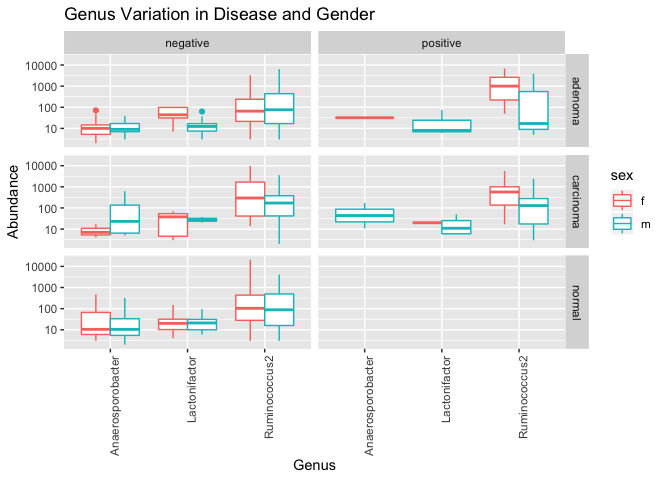
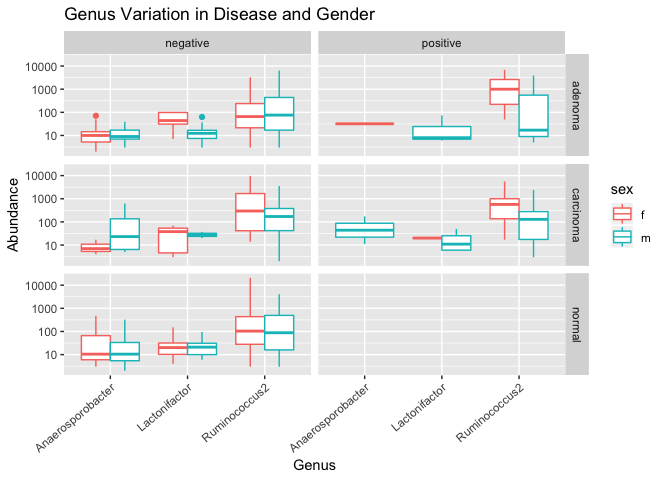
Update the labels on graphs along with the markdow files

diff --git a/Final_Report.md b/Final_Report.md
@@ -1,4 +1,4 @@
-Use Microbiome Distribution Pattern and Abundancy Change Under Different Parameters to Predict and Treat Colonrectal Cancer
+Use Microbiome Distribution Pattern and Abundancy Change to Predict and Treat Colonrectal Cancer
 ================
 Maggie Chen
 December 5, 2018
@@ -6,15 +6,15 @@ December 5, 2018
 Introduction
 ============
 
-Microbial community has constantly interact with human communities and there are both benefits and harms can be done to human health by different bacteria. No limited to the surface of the human body, internally bacteria also has an indispensable role in maintaining normal function and development of human body(Sommer *et al.*, 2016). For instance, microbial community in human's gut is a typical example of how the human can benefit from bacteria. The microbial community in human's gut support metabolic activities, which will help the provide energy and provide nutrients for human's body. The microbial community in the gut also help provide immune protection against alien microbes (McMurdie and Holmes, 2013). Within the adult gastrointestinal tract, the colon has contained the most dense microbial community that in the luminal content there are than 10^11 bacteria per ml. Some of them are even metabolically active. (Whitman *et al.*, 1998). However, microbial community can also be related to diseases, such as inflammatory bowel diseases, allergic, and colorectal cancer, which are due to the change of gut microbiome composition and behavior disorder like depression (Vos and Vos, 2012). Or to identify the prognostic micro RNA to predict the risk of developing colon cancer.(Goossens-Beumer *et al.*, 2015).
+Microbial communities have interacted with human communities continuously, and there are both benefits and harms can be done to human health by different bacteria. Not limited to the surface of the human body, internally bacteria also have an indispensable role in maintaining normal function and development of the human body(Sommer *et al.*, 2016). For instance, the microbial community in human's gut is a typical example of how the human can benefit from bacteria. The microbial community in human's gut support metabolic activities, which will help the provide energy and nutrients for human's body. The microbial community in the gut also help provide immune protection against alien microbes (McMurdie and Holmes, 2013). Within the adult gastrointestinal tract, the colon has contained the densest microbial community that in the luminal content there are than 10^11 bacteria per ml. Some of them are even metabolically active. (Whitman *et al.*, 1998). However, the microbial community can also be related to diseases, such as inflammatory bowel diseases, allergic, and colorectal cancer, which are due to the change of gut microbiome composition and behavior disorder like depression (Vos and Vos, 2012). Alternatively, to identify the prognostic micro RNA to predict the risk of developing colon cancer (Goossens-Beumer *et al.*, 2015).
 
-Worldwide, coloretal cancer has accounted for over a half million death annually, which is the third most commonly diagnosed malignancy (Parkin *et al.*, 2005). There two major stages of correctional cancer development, firstly, it start with the precancerous adenomatous polyps in the colon, which is also known as the adenoma. The second stage is the progression into invasive and metastatic cancerous tumor, which is also called carcinoma (Levin *et al.*, 2008). The development of colorectal adenocarcinoma can be caused by the sequenctial or epigenetic mutation in the epithlial cells in the gastronintestinal trait. The mutation modifies the normal epithlial cells into hyperperliferative mucosa, which gives rise to begin adenoma (Pancione *et al.*, 2012). The normal gastonintestinal epithelium differentiate into several epithelial colon lineage including Panteh, goblet, and endocrine cells. They have the function of secret mucosa to lubercate the colon, and provide ptotection and anchor point for bacteria (Kosinski *et al.*, 2007). Thus, if the cancer causing mutation, alternated the function of colon epithelial cells, there is a chance of changing the microbial community in the colon. Therefore, the abundance and composition of gastrointestinal microbal coomunity may serve as an indication of cancer development. Due to the early diagnosis, the colorectal cancer have a steady decrease of death rate in the United States. The current colon cancer screening and prediction methods are detecting gene mutation or methlyation of certain genes that are related to colon cancer development (Kandimalla *et al.*, 2017).
+Worldwide, colorectal cancer has accounted for over a half million death annually, making it the third most commonly diagnosed malignancy (Parkin *et al.*, 2005). There are two major stages of colorectal cancer development, firstly, it start with the precancerous adenomatous polyps in the colon, known as the adenoma. In the second stage, the adenoma progresses into an invasive and metastatic cancerous tumor, called carcinoma (Levin *et al.*, 2008). The development of colorectal adenocarcinoma can be caused by the sequential or epigenetic mutation in the epithelial cells in the gastrointestinal tract. The mutation modifies the normal epithelial cells into hyperproliferative mucosa, which gives rise to begin adenoma (Pancione *et al.*, 2012). The normal gastrointestinal epithelium differentiates into several epithelial colon lineages including pantech, goblet, and endocrine cells. They have the function of secret mucosa to lubricate the colon and provide protection and anchor points for bacteria (Kosinski *et al.*, 2007). Thus, if a cancer-causing mutation changes the function of colon epithelial cells, there is a chance of altering the microbial community in the colon. Therefore, the abundance and composition of the gastrointestinal microbial community may serve as an indication of cancer development. Due to the early diagnosis, the death rate due to colorectal cancer have steadily decreased in the United States. Current colon cancer screening and prediction methods are detecting gene mutation or methylation of specific genes that are related to colon cancer development (Kandimalla *et al.*, 2017).
 
 Along with the fast development of sequencing techniques, the sequence and investigation on microbial communities have expanded extensively. High-throughput sequencing, also known as the Next Generation Sequencing (NGS) technology, that used the non-Sanger-based method to enable an unprecedented DNA sequencing speed. This also allows the novel biological sequencing applications. For example, 454 technique is known to have a crucial advantage of combing the emulsion PCR and pyrosequencing. For emulsion PCR, the single DNA amplification is a bias-free process, by avoiding the competition by multiple templates for a limited amount of DNA polymerase. Pyrosequencing, can be performed in parallel and produce a visual signal via computer system (Schuster, 2007). The next generation sequencing technique makes the DNA sequencing faster, which generates significantly more data for scientists to process. Thus, to process the massive amount of data, different methods are developed. One of the example and will be used in this paper is the Phylogenetic Sequencing (Phyloseq), which is a contingency table of taxonomic and samples, and integrate with other data types. This can be applied along with the powerful statistical and graphical tool R to enable more various data analysis (McMurdie and Holmes, 2013).
 
-Thus, utilize the sequencing technology and different analyze tools, it is possible to examine the colon cancer is a new perspective, that is it's correlation with microbime composition and changes in cancer progression stages. For this paper, my primary question of interest is that what are the microbiomes that present differently in adenoma, carcinoma, and normal tissues. Also, what are their functions or relationship to the colorectal cancer. Then examine whether there is a correlation between bacteria species and the personal variables like BMI, geographical locations and medication. As an result, for adenoma, carcinoma, and normal tissues, there is a similar microbial community composition, but there is a different the abundance of each bacteria species. Also, bacteria can function in both directions, aid in cancer progression or help slow down the cancer progression. Lastly, geographical regions and medication will also impact and shape the microbial community in individuals, which can function as an possible prediction and guidance for colorectal cancer treatments.
+Thus, utilize the sequencing technology and different analysis tools, it is possible to examine the colon cancer is a new perspective, its correlation with microbiome composition and changes in cancer progression stages. For this paper, my primary question of interest is what are the microbiomes that present differently in adenoma, carcinoma, and normal tissues. Also, what are their functions or relationship to colorectal cancer. Then I examined whether there is a correlation between bacteria species and the personal variables like BMI, geographical locations and medication. As a result, for adenoma, carcinoma, and normal tissues, there is a similar microbial community composition, but there is a difference in the abundance of each bacteria species. In addition, bacteria can function in both directions, aid in cancer progression or help slow down the cancer progression. Lastly, geographical regions and medication will also impact and shape the microbial community in individuals, which can function as a possible prediction and guidance for colorectal cancer treatments.
 
-Even though colon has been the part in human body that has most bacteria involved, but the knowledge of investigating the relationship between cancer and microbial communities in human bodies can be applied to other types of cancer, both in treatment, prediction and prevention.
+Even though colon has been the part in the human body that has most bacteria involved, but the knowledge of investigating the relationship between cancer and microbial communities in human bodies can be applied to other types of cancer, both in treatment, prediction and prevention.
 
 Methods
 =======
@@ -22,28 +22,30 @@ Methods
 Study design
 ------------
 
-Zacular et al. examined 90 patients feces samples with 30 healthy, 30 colon carcinoma, and 30 colon adenoma to examine how the composition of the microbiome will be related to the the colon cancer progression ans whether the microbiome composition will help predict the adenoma and carcinoma lesions. Zacukar et al. also include the factors including BMI, weight, height, geographical location of the patients to further investigate their correlation with microbial communities.
+Zackular et al. examined 90 patients feces samples with 30 healthy, 30 colon carcinoma, and 30 colon adenoma to examine how the composition of the microbiome will be related to the colon cancer progression and whether the microbiome composition will help predict the adenoma and carcinoma lesions. Zackular et al. also include the factors including BMI, weight, height, geographical location of the patients to further investigate their correlation with microbial communities. For this paper, I used the sequence data and the metadata from Zackular et al.'s paper. Then analyzed the sequence data using DADA2, phlyoseq and R studio.
 
 Sample origin and sequencing
 ----------------------------
 
-Approved by the University of Michigan Institutional Review Board and all subjects provided informed consent. Zacular et al. took sample from patients, that were 18 years of age or older, and who could tolerate 58ml of blood removal at two time points, willing to complete an gFOBT kit, able to provide informed consent, also who had colonoscopy and histologically confirmed colonic disease status. Zacular et al, excluded patients who is known to have HIV, chronic vial hepatitis, HNPCC, FAP, inflammatory bowel disease. Or any surgery radiation and chemotherapy for their current colorectal cancer or colonic adenoma. Fecal samples and the colonoscopies were collected and performed respectively from four subjects of locations including, Toronto Canada, Boston Massachusetts, USA; Houston Texas, USA; and Ann Arbor Michigan, USA. The colonoscopies were followed by endoscopic examination, and patients who have no colonic abnormalities weer designated as healthy. For examinations that revealed the presence of lesions resulted in a biopsy and subsquence diagnosis of adenoma or carcinoma. All the samples collected from participants were collected following the usual dietary and medication restriction for 24 hours, as a whole evacuated stoll in a hat with no preservatives. The gFOBT 6-Panel kit (Sensa HemocultII, Beckman-coulter) was prepared by patients immediately after the previous collection, from different areas of the stool. The stool was packaged with ice in an insulated box, and shipped to the processing center align with the gFOBT cards. Once the sample received, the feces samples we stored at -80ºC. The gFOBT was processed and interpreted as soon as the arrival. If 6 wells we positive on the gFOOBT kit, then the patients will be recorded as FOBT positive. At the time of stool collection, all the participants had intact colonic lesion., and sample was provided 1-2 weeks after the colons copy preparation. Overall, there was 90 stool samples received in total, with 30 healthy, 30 colon adenoma and 30 colon carcinoma samples (Zackular *et al.*, 2014). The DNA extraction of samples used the Power-Soil-htp 96 well Soil DNA Isolation Kit (MO BIO Laboratories), and used EPMotion 5075 piptting system. Then the V4 regions of the 16S rRNA genes inn each samples was amplified and sequenced using Illumina MiSeq Personal Sequencing platofrm (Zackular *et al.*, 2014).
+Approved by the University of Michigan Institutional Review Board and all subjects provided informed consent. Zackular et al. took samples from patients, that were 18 years of age or older, and who could tolerate 58ml of blood removal at two time points. There are a few more requirements the participants need to fulfill, including willing to complete a gFOBT kit, able to provide informed consent, also who had a colonoscopy and histologically confirmed colonic disease status. Zackular et al., excluded patients who is known to have HIV, chronic viral hepatitis, HNPCC, FAP, inflammatory bowel disease, as well as, any surgery radiation and chemotherapy for their current colorectal cancer or colonic adenoma. Fecal samples and the colonoscopies were collected and performed from four subjects of locations including, Toronto Canada; Boston Massachusetts, USA; Houston Texas, USA; and Ann Arbor Michigan, USA. The colonoscopies were followed by an endoscopic examination and patients who have no colonic abnormalities were designated as healthy. For examinations that revealed the presence of lesions resulted in a biopsy and subsequent diagnosis of adenoma or carcinoma.
+
+All the samples were collected as a whole evacuated stool a hat with no preservatives following the usual dietary and medication restriction for 24 hours. The gFOBT 6-Panel kit (Sensa HemocultII, Beckman-coulter) was prepared by patients immediately after the previous collection, from different areas of the stool. The stool was packaged with ice in an insulated box and shipped to the processing center to align with the gFOBT cards. Once the sample received, the feces samples we stored at -80ºC. The gFOBT was processed and interpreted as soon as the arrival. If 6 wells we positive on the gFOOBT kit, then the patients will be recorded as FOBT positive. At the time of stool collection, all the participants had intact colonic lesion., and samples were provided 1-2 weeks after the colons copy preparation. Overall, there were 90 stool samples received in total, with 30 healthy, 30 colon adenoma and 30 colon carcinoma samples (Zackular *et al.*, 2014). The DNA extraction of samples used the Power-Soil-htp 96 well Soil DNA Isolation Kit (MO BIO Laboratories), and used EPMotion 5075 piptting system. Then the V4 regions of the 16S rRNA genes in each sample was amplified and sequenced using Illumina MiSeq Personal Sequencing platform (Zackular *et al.*, 2014).
 
 Computational
 -------------
 
-I used DADA to analyze and clean the data, then phyloseq and ggplot to visualize the results. Firstly, I ran a quality control on all twenty of the sample data, which generated a quality profile on each of the samples. Then according to the sequence quality, I trimmed the data if they have more than three expected error, and has a quality lower than two. As a quality control, I created a table to compare the read counts before and after the trim to ensure I did not trim off too many sequences. After the trim, I build an error model for each sample to assess the probability of an unmatched base is an error or not, and a plot to check whether the error model matches the data. After it, I also deleted the duplicated sequences. Then as an essential step, I DADA to process the sequence data. DADA is an analysis include the error model and evaluates whether the unique sequence found is true or false. DADA eliminates the false positive results to provide the real variants and limit spurious sequence, to provide a high-resolution amplicon data (Callahan *et al.*, 2016).
+I used DADA to analyze and clean the data, then phyloseq and ggplot to visualize the results. Firstly, used a bash script to download the data set. Then I ran a quality check on a few sample data, which generated a quality profile on each of the samples. Then according to the sequence quality, I trimmed the data if they have more than three expected error, and has a quality lower than two. As a quality control, I created a table to compare the read counts before and after the trim to ensure I did not trim off too many sequences. After the trim, I build an error model for each sample to assess the probability of an unmatched base is an error or not, and a plot to check whether the error model matches the data. After it, I also deleted the duplicated sequences. Then as an essential step, I DADA to process the sequence data. DADA is an analysis include the error model and evaluates whether the unique sequence found is true or false. DADA eliminates the false positive results to provide the real variants and limit spurious sequence, to provide a high-resolution amplicon data (Callahan *et al.*, 2016).
 
-Then I listed the output of the DADA analysis on a table according to the variety of length. As well as a histogram to indicate the distribution of the sequence that is trimmed and denoised, to ensure that all the sequences are in acceptable length and quality. Using this output, I also removed all the chimeras, which is the cDNA sequence that generated from two transcripts that is caused by polymerase stuck and ump to another similar sequence. Using the sequence data, I assigned the taxonomy according to the supplied training set. Using the dada2 output, I charted a data set, which contains the metadata for each sample, Phylogeny, and taxonomy for each sequence. The phyloseq pakges was used to import the information, and help analyze the phylogenetic sequence data clustered into Operational Taxonomic Units (OTU) (McMurdie and Holmes, 2013). I also melted the phyloseq data files to enable the ggplot function.
+Then I listed the output of the DADA analysis on a table according to the variety of length. I also created a histogram to indicate the distribution of the sequence that is trimmed and denoised, to ensure that all the sequences are in acceptable length and quality. Using this output, I also removed all the chimeras, which are the cDNA sequence generated from two transcripts that is caused by polymerase stuck to another similar sequence. Using the sequence data, I assigned the taxonomy according to the supplied training set. Using the dada2 output, I charted a data set, which contains the metadata for each sample, Phylogeny, and taxonomy for each sequence. The phyloseq packges was used to import the information, and help analyze the phylogenetic sequence data clustered into Operational Taxonomic Units (OTU) (McMurdie and Holmes, 2013). I also melted the phyloseq data files to enable the ggplot function.
 
 Results
 =======
 
-Firstly I was interested in how is the distribution of Phylum in different cancer progression stages, which includes normal, adenoma, and carcinoma. I found that in different types of fecal samples, they had very similar composition of microbial communities, but there are differences in the abundance of different phylum. The distribution pattern in three kinds of tissue samples are very different. The Bactericides abundance decreased in the order normal samples has the highest abundance, then carcinoma and then adenoma samples. Euryarchaeota is in the opposit trending than the Bacteroidets, the abundance increase in the order of normal, carcinoma, and adenoma. Fusobacteria is significantly more abundant in carcinoma samples. Proteibacteria is more abundant in adenoma and carcinoma samples than the normal samples (Figure 1.). Then I selected thos Phylum that showed a interesting pattern across different sample types to further examine the Class distributions in not normal samples. As well as the correlation between Class and FOBT results. As a results, Bacterioidia has the some abundance in both FOBT positive and negative samples from adenoma, and carcinoma. In both adenoma and carcinoma samples, the FOBT sample had more abundant Fusobacteriia than FOBT negative samples. The Clostridia and Negativicutes had a almost identical abundance in both FOBT positive and negative samples across the disease state. For Gammaproteobacteria, FOBT positive sample in both adenoma and carcinoma had lower abundance (Figure 2.).
+Firstly I was interested in the distribution of Phylum in different cancer progression stages, which includes normal, adenoma, and carcinoma. I found that in different types of fecal samples, they had a very similar composition of microbial communities, but there are differences in the abundance of different Phyla. The distribution pattern in three kinds of tissue samples are very different. The Bactericides abundance decreased, the normal samples has the highest abundance, then carcinoma and then adenoma samples. Euryarchaeota is in the opposite trending than the Bacteroides, the abundance increase in the order of normal, carcinoma, and adenoma. Fusobacteria is significantly more abundant in carcinoma samples. Proteobacteria is more abundant in adenoma and carcinoma samples than the normal samples (Figure 1). Next, I selected phyla that showed an interesting pattern across different sample types to further examine the Class distributions in non-normal samples and the correlation between Class and FOBT results. As a results, Bacterioidia has some abundance in both FOBT positive and negative samples from adenoma and carcinoma. In both adenoma and carcinoma samples, the FOBT sample had more abundant Fusobacteria than FOBT negative samples. The Clostridia and Negativicutes had an almost identical abundance in both FOBT positive and negative samples across the disease state. For Gammaproteobacteria, FOBT positive sample in both adenoma and carcinoma had a lower abundance (Figure 2).
 
-Then I selected out Gammaproteobacteria, Clostridia, Fusobacteriia, and Negativicutes to investigate their distribution in FBOT positive samples. Also, the how gender will impact the abundance. For Fusobacteriia, there were mostly male samples only. Fusobacteria also had high abundance in carcinoma tissues, and lower in adenoma samples. For Gammaproteobacteria, in both adenoma and carcinoma samples, they had relatively similar abundance in both male and female samples. Clostridia had lower abundance in both male adenoma and carcinoma samples than female. This similar to the pattern of Negativicutes, in adenomas samples. However, Negativicutes had significantly higher abundance in male carcinoma than female (Figure 3.). Giving Clostridia had a pattern consistency in adenoma and carcinoma sample, I then further investigated three specific Genus under Class Clostridia, Family Lachnospiraceae, which are Genus *Lactonifactor*, *Ruminococcus2*, *Anaerosporobacter*, with their abundance under the context of FOBT results and gender. In both male and female, FOBT results created a different abundance of mirobiome in adenoma and carcinoma samples. Within the Family Lachnospiraceae, I filtered several Genus that has relatively high abundance. *Anaerosporobacter* had similar abundance for male and female in each of FOBT negative sample types, adenoma, carcinoma and normal. However, it is only found in female FOBT positive adenoma samples and male FOBT positive carcinoma samples. *Ruminococcus* was found in similar abundance in FOBT negative samples between male and females. But in the FOBT positive samples, *Ruminococcus* was more abundant in both female adenoma and carcinoma samples than male (Figure 4.).
+Then I selected out Gammaproteobacteria, Clostridia, Fusobacteriia, and Negativicutes to investigate their distribution in FBOT positive samples. I also investigate how gender will impact the abundance. For Fusobacteriia, there were mostly male samples only. Fusobacteria also had high abundance in carcinoma tissues, and lower in adenoma samples. For Gammaproteobacteria, in both adenoma and carcinoma samples, they had relatively similar abundance in both male and female samples. Clostridia had lower abundance in both male adenoma and carcinoma samples than female. This similar to the pattern of Negativicutes, in adenomas samples. However, Negativicutes had significantly higher abundance in male carcinoma than female (Figure 3). Giving Clostridia had a pattern consistency in adenoma and carcinoma sample, I then further investigated three specific Genus under Class Clostridia, Family Lachnospiraceae, which are Genus *Lactonifactor*, *Ruminococcus2*, *Anaerosporobacter*, with their abundance under the context of FOBT results and gender. In both male and female, FOBT results created a different abundance of the microbiome in adenoma and carcinoma samples. Within the Family Lachnospiraceae, I filtered several Genus that has relatively high abundance. *Anaerosporobacter* had a similar abundance for male and female in each of FOBT negative sample types, adenoma, carcinoma and normal. However, it is only found in female FOBT positive adenoma samples and male FOBT positive carcinoma samples. *Ruminococcus* was found in similar abundance in FOBT negative samples between male and females. However, in the FOBT positive samples, *Ruminococcus* was more abundant in both female adenoma and carcinoma samples than male (Figure 4).
 
-Since *Ruminococcus* had shown a different pattern between the FOBT positive and negative samples, and gender. I then further examined the geographical location's impact on *Ruminococcus*. For the adenoma samples had *Ruminococcus* detected, the patients are from Toronto or Ann Arbor, But mostly Toronto, ON, Canada. The carcinoma samples were mostly from Boston and Houston patients. For normal healthy samples are more diverse and came from all four different locations (Figure 5.). Lastly, I was interested to see how different combinations of medication that contains the liptor will influence the *Ruminococcus* abundance in the samples. As the results, for the effect of medication in FOBT negative samples. Female patients who had lipitor ins the treatment, they had relatively high abundance of *Ruminococcus*, and the average abundance is similar to each other. For male individuals, different combinations of treatment that contains lipitor creates a variation of *Ruminococcus* abundance. Individual had only treated with lipitor had the highest *Ruminococcus* mean abundance, then lipitor with ezetrol and lipitor with metformin and allupurinol had a decrease the *Ruminococcus* abundance. The treatment of lipitor and novasc had significantly lowered the *Ruminococcus* abundance in male adenoma samples (Figure 6.).
+Since *Ruminococcus* had shown a different pattern between the FOBT positive and negative samples, and gender. I then further examined the geographical location's impact on *Ruminococcus*. For the adenoma samples with *Ruminococcus* detected, the patients are from Toronto or Ann Arbor, But mostly Toronto, ON, Canada. The carcinoma samples were mostly from Boston and Houston patients. Normal healthy samples were found in all four locations (Figure 5). Lastly, I was interested to see how different combinations of medication that contains the liptor will influence the *Ruminococcus* abundance in the samples. As the results, for the effect of medication in FOBT negative samples. Female patients who took Lipitor were found to have a relatively high abundance of *Ruminococcus*, and the average abundance is similar to each other. For male individuals, different combinations of treatment that contains Lipitor create a variation of *Ruminococcus* abundance. Individuals had only treated with Lipitor had the highest *Ruminococcus* mean abundance, then Lipitor with ezetrol and Lipitor with metformin and allopurinol had a decrease the *Ruminococcus* abundance. The treatment of Lipitor and novasc had significantly lowered the *Ruminococcus* abundance in male adenoma samples (Figure 6).
 
 ![](Final_Report_files/figure-markdown_github/Phylum-disease-corrolation-barplot-1.png)
 
@@ -88,17 +90,17 @@ Figure 6. To further investigate how *Ruminococcus* is impacted by the medicatio
 Discussion
 ==========
 
-The result suggested that for microbial have huge variation of abundance depend on different disease state, gender, FOBT results, geographical locations, and medications. The variation of the microbial abundance, while have the sample phylum composition of the microbime can sever as a method too distinguish and even predict the progression stages of the colon cancer. The Fusobacteria has a significant increase in abundance in the carcinoma samples, while in normal and adenoma tissue Fusobacteria remained at a very low concentration (Figure 1.). Thus, if patients has an increase in the Fusobacteria abundance, there might be a risk of developing colon cancer. Or Bacteroidetes is commonly found in colon, human skin even healthy placenta (Mor and Kwon, 2015), and it is highly abundant in normal tissues and experience a decrease in abundance in adenoma and carcinoma samples (Figure 1). Thus, if the feces screening has found a decrease in the Bacterioidetes, then more test might needed to further evaluate the risk of developing colon cancer. However, the phylum might be a categorize with higher uncertainties of which specific bacteria we are looking for and whether other factors plays a important role in the colon cancer. Thus, looking into the class underneath and whether Blood in the fecal samples will aid into the change of micorbiome. The FOBT, fecal occult blood test, has show to correlate with the mortality of colon cancer. The FOBT positive result might relate to the reduction of mortality to colon cancer (Mandel *et al.*, 1993). I found several class of bacteria that has height abundance in the FOBT positive samples, than the FOBT negative sample, which can be used as another additional screening method for colon cancer. For example, in both adenoma and carcinoma samples, Fusobacteriia and Deltaproteobacteria has found mroe abundant in FOBT positive sample. In contrast Gammaproteobacteria has been found to have lower abundance in FOBT positive samples (Figure 2). This observation has very much related to the function of the bacteria, which then can even help us provide a more accurate treatment. *Fusobacterium*, the Genus within Class Fusobacteria has been found as a possible opportunistic pathogen located in both mouth and gut that is implicated in inflammatory diseases (Signat *et al.*, 2011). During the cancer progression especially the lesion has caused the bleeding, *Fusobacterium* might participating in induce the inflation in the colon. Thus, it is possible to use anti-inflammatory medication to help reduce the syndrome.
+The result suggested that microbial communities have a vast variation of abundance depending on different disease state, gender, FOBT results, geographical locations, and medications. The variation of the microbial abundance, while have the sample phyla composition of the microbiome can sever as a method to distinguish and even predict the progression stages of the colon cancer. The Fusobacteria has a significant increase in abundance in the carcinoma samples, while in normal and adenoma tissue Fusobacteria remained at a very low concentration (Figure 1.). Thus, if patients have an increase in the Fusobacteria abundance, there might be a risk of developing colon cancer. Bacteroidetes is commonly found in the colon, human skin even healthy placenta (Mor and Kwon, 2015), and it is highly abundant in normal tissues and experience a decrease in abundance in adenoma and carcinoma samples (Figure 1). Thus, if the feces screening has found a decrease in the Bacterioidetes, then more test might be needed to further evaluate the risk of developing colon cancer. However, the phylum might be a categorize with higher uncertainties of which specific bacteria we are looking for and whether other factors plays a critical role in colon cancer. Thus, looking into the class underneath and whether Blood in the fecal samples will aid into the change of microbiome. The FOBT, fecal occult blood test, has shown to correlate with the mortality of colon cancer. The FOBT positive result might relate to the reduction of mortality to colon cancer (Mandel *et al.*, 1993). I found several classes of bacteria that has a higher abundance in the FOBT positive samples, than the FOBT negative sample, which can be used as another additional screening method for colon cancer. For example, in both adenoma and carcinoma samples, Fusobacteriia and Deltaproteobacteria have found more abundant in FOBT positive sample. In contrast, Gammaproteobacteria has been found to have lower abundance in FOBT positive samples (Figure 2). This observation has very much related to the function of the bacteria, which then can even help us provide a more accurate treatment. *Fusobacterium*, the Genus within Class Fusobacteria has been found as a possible opportunistic pathogen located in both mouth and gut that is implicated in inflammatory diseases (Signat *et al.*, 2011). During the cancer progression especially if the lesion has caused the bleeding, *Fusobacterium* might participate in inducing the inflammation in the colon. Thus, it is possible to use anti-inflammatory medication to help reduce the syndrome.
 
-There are also a lot of factors other than FOBT test that plays a role the colon cancer progression. I have investigated how Body Mass Index (BMI), the gender, geographical location and medication will impact the mirocbiome distribution pattern. For the BMI, there is no obvious correlation with the colon cancer development nor the change in the microbime community. As for gender, there are bacteria only has been found in male, Fusobacteria is only found in FOBT positive male samples, and lower abundance in adenoma than carcinoma (Figure 3). In combination with the previous information, having less abundance in adenoma indicate less inflammatory is happening in precancerous condition. Also, Fusobacteriia will more likely to be the cause of inflammation in male than female. For Negativicutes, it is more commonly found in female adenoma than male, but it dramatically decrease in the female carcinoma samples, while only have a slight decrease in male carcinoma samples. Negativicutes is know to aid in the production or conversion of either succinate or lactate to propinoate in the human gut (Reichardt *et al.*, 2014). The intake of propoinate in colon, will reduce the energy intake and prevent weight gain (Chambers *et al.*, 2015). Thus, females are more vulnerable to weight loss, when they develop colon carcinoma.
+There are also a lot of factors other than FOBT test that plays a role the colon cancer progression. I have investigated how the Body Mass Index (BMI), the gender, geographical location and, medication will impact the microbiome distribution pattern. For the BMI, there is no obvious correlation with the colon cancer development nor the change in the microbiome community. As for gender, Fusobacteria is only found in FOBT positive male samples with lower abundance in adenoma than carcinoma (Figure 3). In combination with the previous information, having less abundance in adenoma indicate less inflammation is happening in precancerous condition. Also, Fusobacteria will more likely to be the cause of inflammation in male than female. For Negativicutes, it is more commonly found in female adenoma than male, but it dramatically decreases in the female carcinoma samples, while only have a slight decrease in male carcinoma samples. Negativicutes is known to aid in the production or conversion of either succinate or lactate to propionate in the human gut (Reichardt *et al.*, 2014). The intake of propoinate in the colon, will reduce energy intake and prevent weight gain (Chambers *et al.*, 2015). Thus, females are more vulnerable to weight loss, when they develop colon carcinoma.
 
-Family Lachnospiraceae has been know to help maintain the gut health as active plant degredaders (Biddle *et al.*, 2013). All the Genus in the Family has decrease in the abundance in the FOBT postie samples, but not necessary in adenoma and carcinoma (Figure 4). This ia an indication that the FOBT positive is a relative strong reflection of the decrease of health of colon, in colon cancer progression. Thus, if a patients has a decrease in the abundance of Lachonospiraceae, then extra attention is needed to maintain gut health and function. *Ruminococcus* is the Genus that belongs to the Family Lachnospiraceae, which has a very specific geographic distribution that relate to the colon cancer progression. *Ruminococcus* is only commonly found in adenoma samples that patients are from Toronto, Canada. *Ruminococcus* is only found in carcinoma samples from patients in Boston and Huston, USA. In contrast, *Ruminococcus* is found in normal samples for people from all four locations (Figure 5). This is a indication that different diet at different geographic location will somehow shape the microbiom in adenoma and carcinoma cancer progressions. This also an indication that, while using microbiome as a screening tool to predict and treat colon cancer, we have to consider both progression stages and the region the patients come from. To provide more accurate prediction and more effective treatments. What's more, it also possible that different dietary at different locations can cause different mutations or effect to induce the chance of getting colon cancer, which will then alternate the microbiome differently (Janout *et al.*, 2001).
+Family Lachnospiraceae has been known to help maintain the gut health as active plant degraders (Biddle *et al.*, 2013). All the Genus in the Family has decreased abundance in the FOBT postive samples, but not necessary in adenoma and carcinoma (Figure 4). This is an indication that the FOBT positive is a relatively strong reflection of the decrease of the health of the colon, in colon cancer progression. Thus, if a patient has a decrease in the abundance of Lachonospiraceae, then extra attention is needed to maintain gut health and function. *Ruminococcus* is the Genus that belongs to the Family Lachnospiraceae, which has a particular geographic distribution that relate to the colon cancer progression. *Ruminococcus* is only commonly found in adenoma samples of patients that are from Toronto, Canada. *Ruminococcus* is only found in carcinoma samples from patients in Boston and Huston, USA. In contrast, *Ruminococcus* is found in normal samples for people from all four locations (Figure 5). This is an indication that different diet at different geographic locations will somehow shape the microbiome in adenoma and carcinoma cancer progressions. This also an indication that, while using microbiome as a screening tool to predict and treat colon cancer, we have to consider both progression stages and the region the patients come from. To provide more accurate prediction and more effective treatments. What's more, it also possible that different dietary restirction or locations can cause various mutations, which might induce the chance of getting colon cancer and alter the microbiome differently (Janout *et al.*, 2001).
 
-Lastly, the medication will alternate the microbioms composition as well. Lipitor is a medication commonly used by patients in the experiment. Lipitor is the brand name for Atorvastatin, which has commonly known to be used for lowing blood cholesterol and prevent cardiovascular disease. However, it has recently being found to prevent colon carcinogenics (Wu *et al.*, 2015). This matches up with my observation that *Ruminococcus* abundance under different treatment effects was only available for adenoma samples, kipitor might be used to prevent the colon cancer progression to carcinoma (Figure 6). Also, I investigated how different medication combination with lipitor will impact the *Ruminococcus* abundance. The *Ruminococcus* remains at a relative high level across treatments and gender. Except for male individual treated norvasc, methoformim and allupurinal (Figure 6). The medications are not specific to colon cancer, there might be a side effect of combing different medications, which lead to the decrease of the *Ruminococcus* abundance. But this need more investigation on the effects of medications on each other.
+Lastly, the medication will alternate the microbiome composition as well. Lipitor is a medication commonly used by patients in the experiment. Lipitor is the brand name for Atorvastatin, which has commonly known to be used for lowing blood cholesterol and prevent cardiovascular disease. However, it has recently been found to prevent colon carcinogenesis (Wu *et al.*, 2015). This matches up with my observation that *Ruminococcus* abundance under different treatment effects was only available for adenoma samples, Lipitor might be used to prevent the colon cancer progression to carcinoma (Figure 6). Also, I investigated how different medication combination with Lipitor will impact the *Ruminococcus* abundance. The *Ruminococcus* remains at a relatively high level across treatments and gender. Except for male individual treated norvasc, methoformim and allupurinal (Figure 6). The medications are not specific to colon cancer, There might be a side effect of combing different medications, which lead to the decrease of the *Ruminococcus* abundance. However, this needs more investigation on the effects of medications on each other.
 
-There are several limitations of this paper. The major is that all the prediction and investigation on the microbiome community are based on fecal samples, however, there is a possibility that in the colon or in the cancer tissues there are some unique bacteria than the fecal samples. For carcinoma patients, we do not have the stage information from them, which can be very helpful to provide more detailed analysis. There are also some more information we can collect from patients, like whether they have dietary restriction, and how is the common types of food they consume on daily basis. For the medication information, there are medications that are not targeting the colon cancer, therefore, information about some other disease the patients have might help to make more sense of the mediation combination and their effects on microbiome composition.
+There are several limitations of this paper - the major one being that all the prediction and investigation on the microbiome community are based on fecal samples. However, there is a possibility that in the colon cancer tissues there are some unique bacteria than the fecal samples. For carcinoma patients, we do not have the stage information, which can be very helpful in order to provide a more detailed analysis. There is also some more information we can collect from patients, like whether they have dietary restriction, and what are the common types of food they consume on a daily basis are. For the medication information, some medications are not targeting colon cancer. Therefore, information about some other disease the patients have might be helpful to make more sense of the mediation combination and their effects on microbiome composition.
 
-In summary, in order to use the distribution pattern and abundance change of microbiomes to predict and treat different progression stages of the colon cancer, there are a lot of parameters need to be taken into consideration. Also, we need a sufficient amount of understanding of bacteria functions in colon. As the result, using the gender, geographical information can help us identity some key species of bacteria and further understand the relationship with the colon caner. It is highly possible that we can develop a module in incorporate all the parameters to predict the development and risk of colon cancer, or to provide more accurate treatment to improve survival rate of the colon cancer.
+In summary, in order to use the distribution pattern and abundance change of microbiomes to predict and treat different progression stages of the colon cancer, there are many parameters need to be taken into consideration. Also, we need a sufficient amount of understanding of bacteria functions in the colon. As a result, using gender, geographical information can help us identify some key species of bacteria and further understand the relationship with the colon cancer. It is highly possible that we can develop a module in incorporate all the parameters to predict the development and risk of colon cancer or to provide more accurate treatment to improve the survival rate of the colon cancer. What's more, the same method can also be applies to other types of disease for alternative treatments.
 
 Sources Cited
 =============
